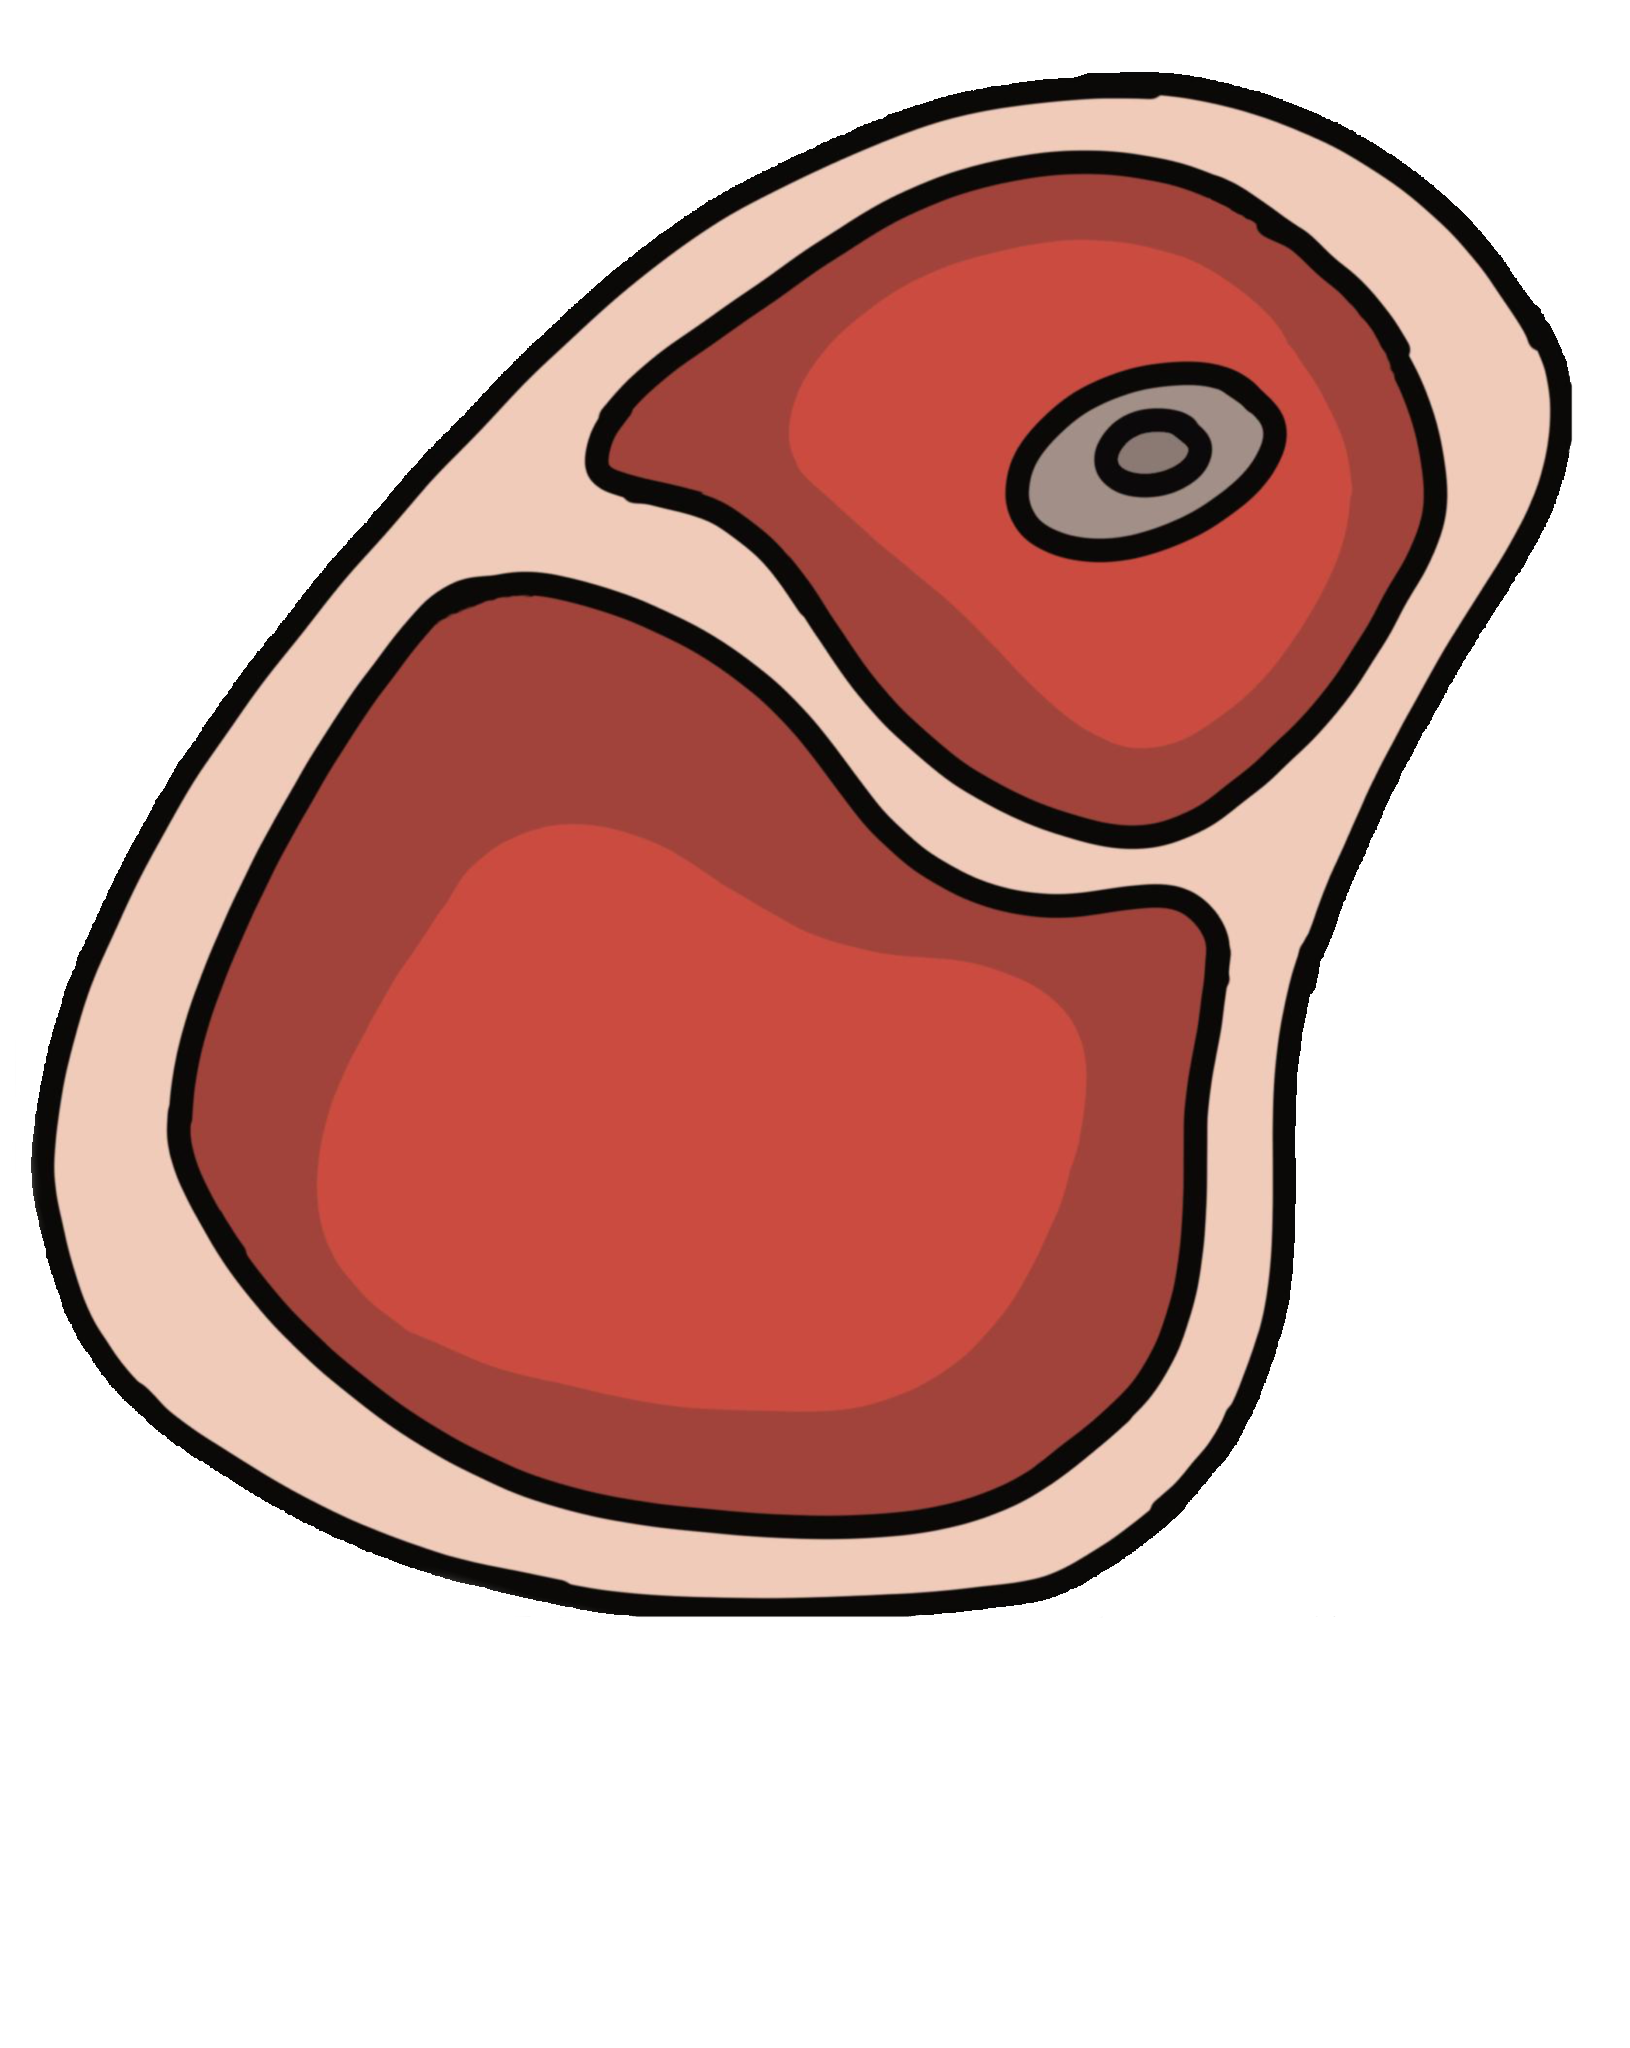
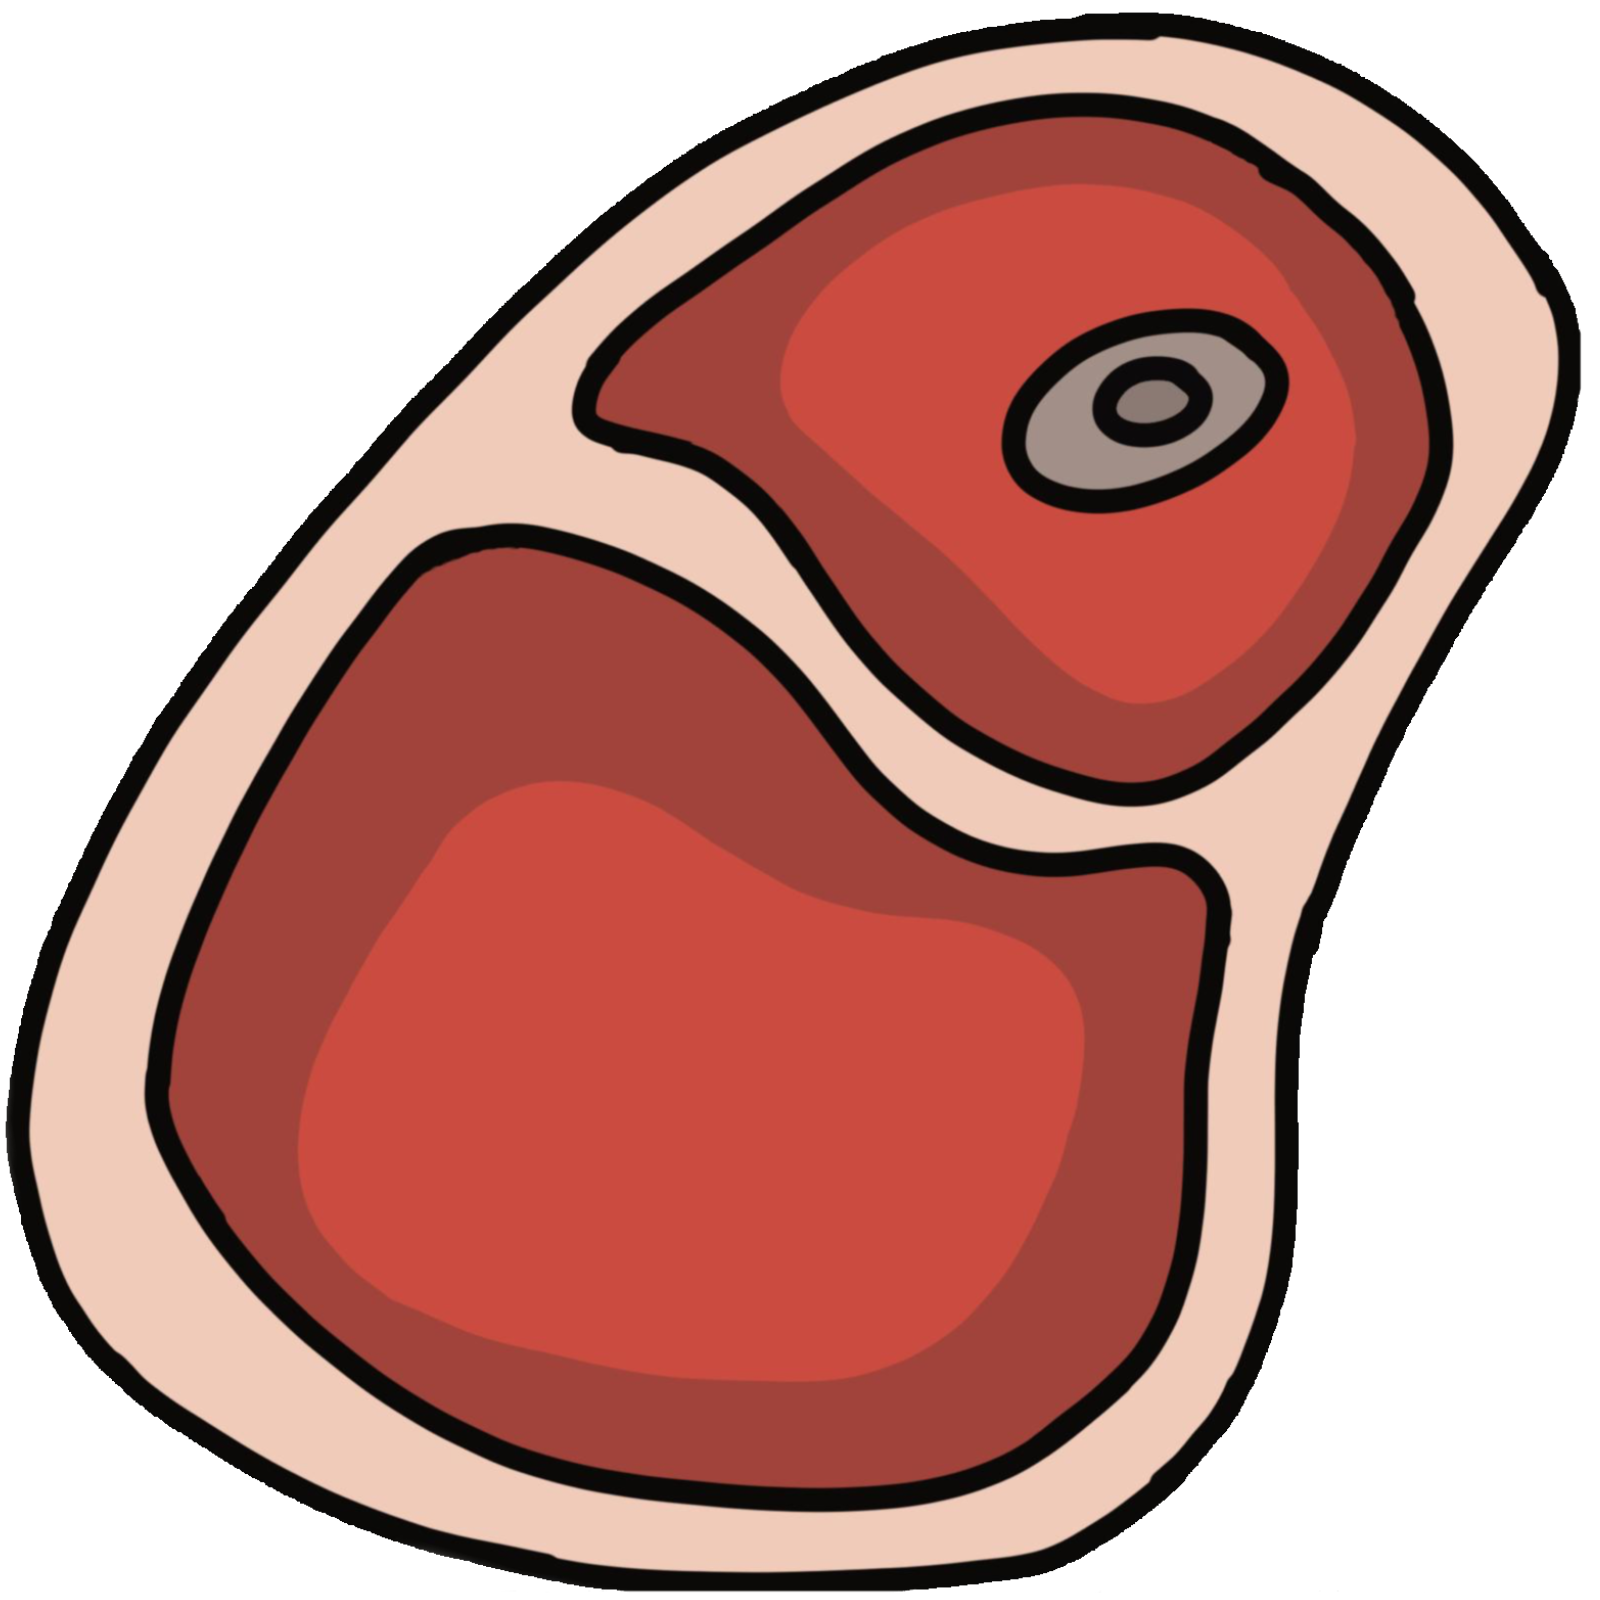
live coding

diff --git a/script.js b/script.js
@@ -131,7 +131,8 @@ function spawnObstacle() {
         y: GROUND_Y - prefab.h,
         w: prefab.w,
         h: prefab.h,
-        sprite: prefab.sprite || null
+        sprite: prefab.sprite || null,
+        type: prefab.type || "enemy"
     });
 }
 
@@ -144,9 +145,20 @@ function obstacleMove() {
     obstacles.forEach(ob => {
 
         ob.x -= gameSpeed;
+
+
         if (rectsCollide(player, ob)) {
-            callGameOver();
+            if (ob.type === "enemy") {
+                // console.log("I'm the enemy")
+                callGameOver();
+            }
+            if (ob.type === "friend") {
+                // console.log("I'm the friend")
+                score += 10;
+                obstacles.splice(obstacles.indexOf(ob), 1);
+            }
         }
+
 
         if (ob.x + ob.w < 0) {
             obstacles.splice(obstacles.indexOf(ob), 1);
@@ -242,6 +254,7 @@ function drawGameOverOverlay() {
     ctx.textAlign = "center";
     ctx.textBaseline = "middle";
 
+    // display here gameover panels 
     ctx.font = "32px sans-serif";
     ctx.fillText("Game Over", canvas.width / 2, canvas.height / 2 - 20);
 
@@ -263,7 +276,7 @@ function drawPauseOverlay() {
     ctx.font = "28px sans-serif";
     ctx.fillText("PAUSED", canvas.width / 2, canvas.height / 2);
     ctx.font = "18px sans-serif";
-    ctx.fillText("Premi P per continuare", canvas.width / 2, canvas.height / 2 + 30);
+    ctx.fillText("Press P to continue", canvas.width / 2, canvas.height / 2 + 30);
 
     ctx.textAlign = "start";
     ctx.textBaseline = "alphabetic";

diff --git a/style.css b/style.css
@@ -19,6 +19,7 @@ body {
     max-width: 1400px;
     max-height: 500px;
     border: 2px solid #222;
+    border-radius: 20px;
     background: rgba(0, 174, 255, 0.827);
     display: block;
 }
